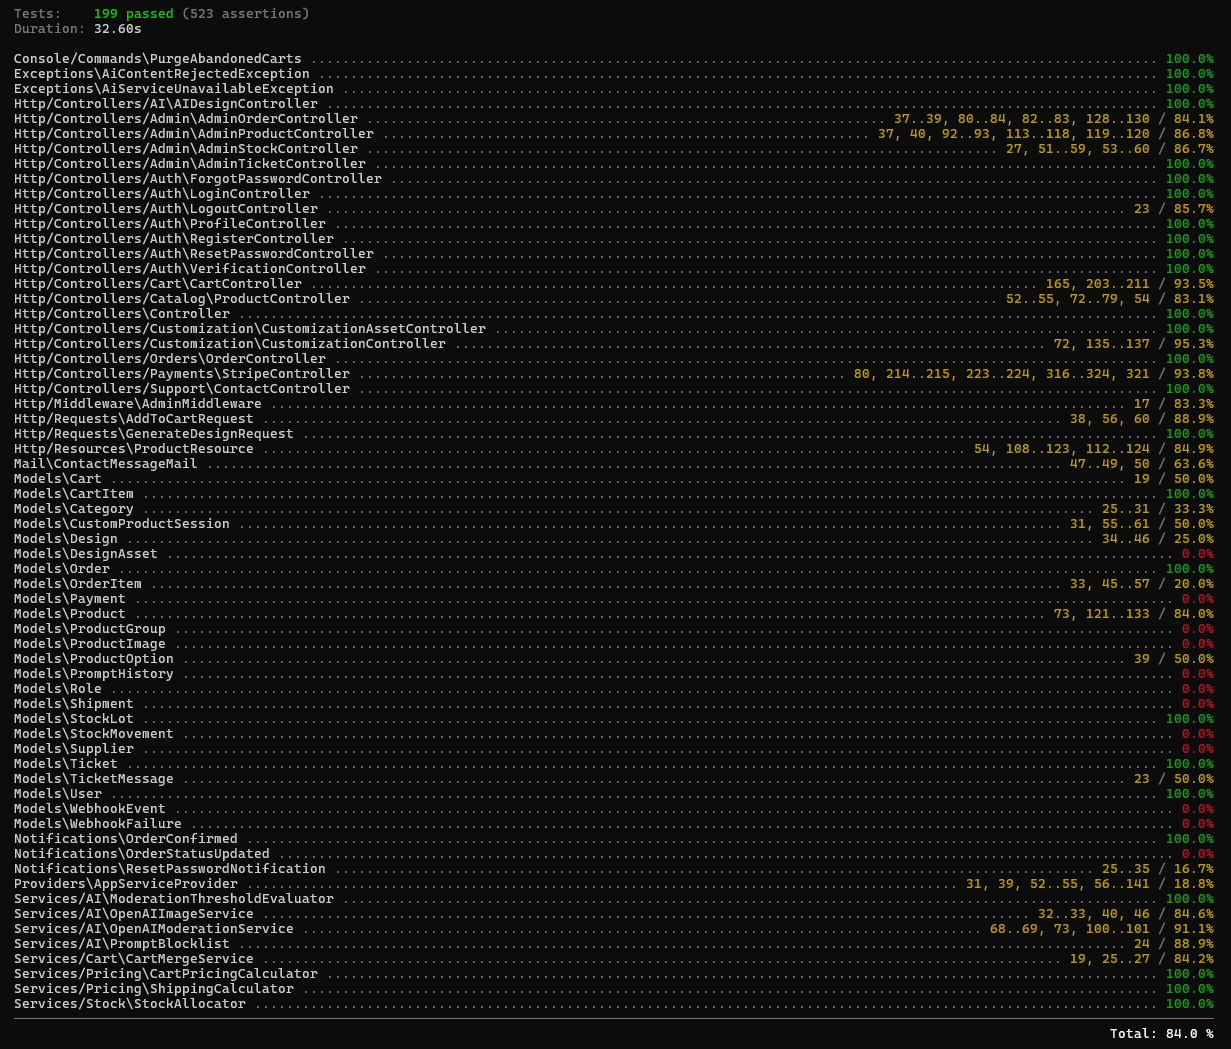
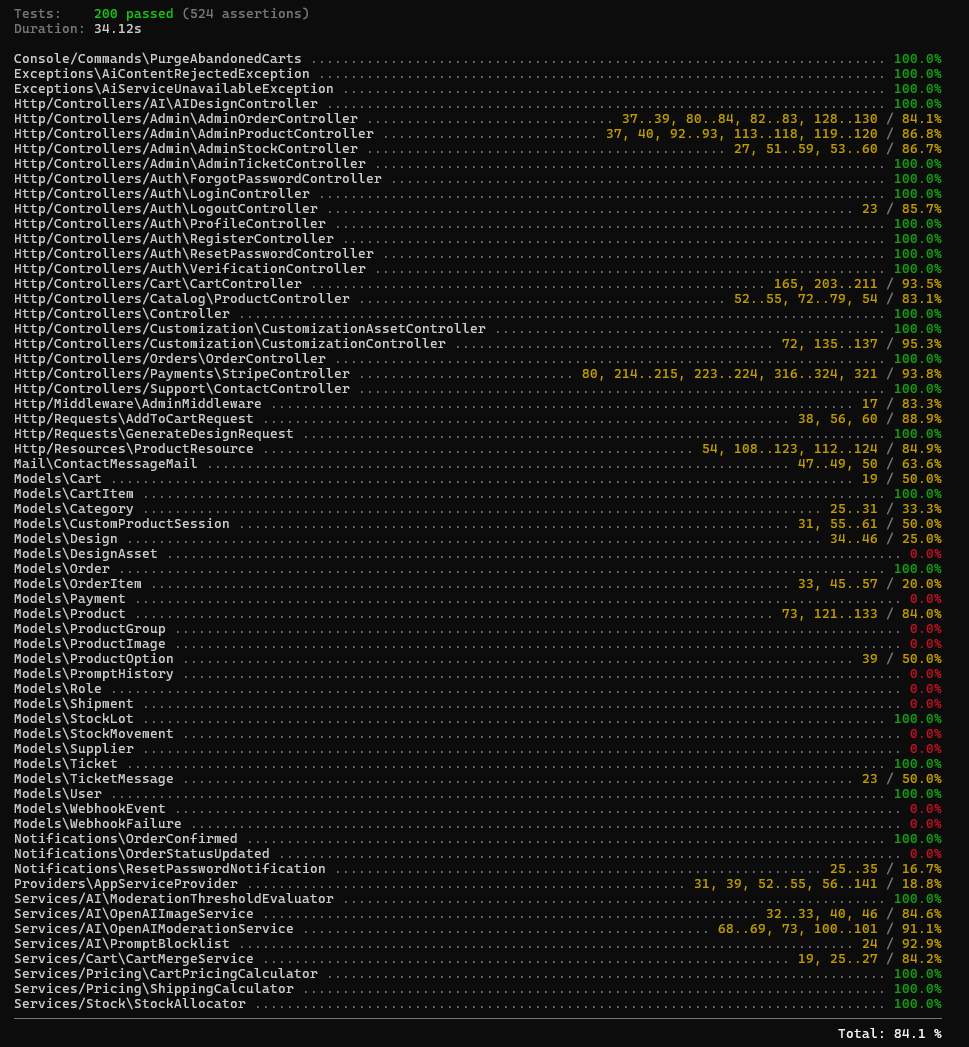
docs(rendusrncp): add CUST-14 leetspeak scenario, update test counts and proofs

diff --git a/preuves_recettes/README.md b/preuves_recettes/README.md
@@ -26,15 +26,15 @@ Screenshots and videos supporting the recette test book (see `rendusrncp/cahier_
 | `erreursentryfront-1.png`                 | Frontend Sentry issue (test) in the dashboard                                                                                        |
 | `erreursentryfront-2.png`                 | Test error captured in the browser console                                                                                           |
 | `sentrybackend-1.png`, `-2.png`, `-4.png` | Real incident: `/api/ai/designs/generate` timeout (30s exceeded) — **no dedicated report in `FICHES_INCIDENTS.md` yet, to be added** |
-| `sentrybackend-3.png`                     | Separate real incident: `Class "Redis" not found` — Report 5 in `rendusrncp/FICHES_INCIDENTS.md`                                     |
+| `sentrybackend-3.png`                     | Separate real incident: `Class "Redis" not found` - Report 5 in `rendusrncp/FICHES_INCIDENTS.md`                                     |
 
 ## Tests, pipeline, accessibility, payment
 
 | File                               | Content                                                                    |
 |------------------------------------|----------------------------------------------------------------------------|
-| `backendtests-1.png` / `-2.png`    | Backend test suite (PHPUnit, 199 passed)                                   |
+| `backendtests-1.png` / `-2.png`    | Backend test suite (PHPUnit, 200 passed)                                   |
 | `frontendtests.png`                | Frontend test suite (Jest, 40 passed)                                      |
-| `tests-coverage.png`               | Backend code coverage by file (`php artisan test --coverage`, total 84.0%) |
+| `tests-coverage.png`               | Backend code coverage by file (`php artisan test --coverage`, total 84.1%) |
 | `pipeline-1.png` … `-3.png`        | CI/CD pipeline (GitHub Actions)                                            |
 | `A11Y-01.png` / `A11Y-01.mp4`      | Accessibility demonstration (keyboard navigation/screen reader)            |
 | `uptime-1.png`                     | Uptime monitoring                                                          |
@@ -53,11 +53,11 @@ Screenshots and videos supporting the recette test book (see `rendusrncp/cahier_
 | `infra04-pipeline-staging-e2e.png`           | INFRA-04: staging pipeline + Cypress E2E green (GitHub Actions)                                |
 | `infra05-pipeline-production.png`            | INFRA-05: production deployment with manual approval gate validated (GitHub Actions)           |
 
-## Closing out the recette test book, second pass (96 → 99 scenarios, 21/07/2026)
+## Closing out the recette test book, second pass (96 → 100 scenarios, 21/07/2026)
 
-Three new Customization scenarios, found and closed during a manual browser walkthrough of the guard rails
-(player number format, text blocklist, upload moderation) that had automated test coverage but no recette
-entry yet.
+Four new Customization scenarios, found and closed during a manual browser walkthrough of the guard rails
+(player number format, text blocklist, upload moderation, blocklist evasion) that had automated test coverage
+but no recette entry yet.
 
 | File                                  | Content                                                                                                                                                                                                                     |
 |---------------------------------------|-----------------------------------------------------------------------------------------------------------------------------------------------------------------------------------------------------------------------------|
@@ -66,3 +66,5 @@ entry yet.
 | `cust12-blocklist-frontend.png`       | CUST-12: rejection message shown in the 3D configurator for a blocklisted term in the player name field                                                                                                                     |
 | `cust13-backend-tests.png`            | CUST-13: targeted PHPUnit tests (logo/image upload rejected for flagged content), 2 passed (7 assertions)                                                                                                                   |
 | `cust13-moderation-frontend.png`      | CUST-13: rejection message shown in the 3D configurator for an uploaded image containing prohibited visual content (weapons, drugs, hate symbols) - dedicated vision-model check added after this scenario was first closed |
+| `cust14-leetspeak-backend-tests.png`  | CUST-14: `PromptBlocklistTest::test_detects_leetspeak_character_substitution` - blocklist now normalizes common character substitutions (e.g. "H!TLER") before matching                                                     |
+| `cust14-leetspeak-frontend.png`       | CUST-14: rejection message shown in the 3D configurator for a blocklisted term disguised with character substitution                                                                                                        |

diff --git a/rendusrncp/fiches_incidents.md b/rendusrncp/fiches_incidents.md
@@ -377,13 +377,13 @@ gate on the GitHub "Production" environment, run #28973278625) on 2026-07-08.
 **Validation**
 Authenticated Lighthouse audit replayed on the configurator page after deployment:
 
-| | Before fix | After fix |
-|---|---|---|
-| Performance | **0** (blank page) | **66** |
-| Accessibility | 93 | 94 |
-| Best practices | 92 | **100** |
-| SEO | 100 | 100 |
-| Console errors | 6+ (CSP, WebGL context lost) | **0** |
+|                | Before fix                   | After fix |
+|----------------|------------------------------|-----------|
+| Performance    | **0** (blank page)           | **66**    |
+| Accessibility  | 93                           | 94        |
+| Best practices | 92                           | **100**   |
+| SEO            | 100                          | 100       |
+| Console errors | 6+ (CSP, WebGL context lost) | **0**     |
 
 Before/after screenshots in `lighthouse/4-prod-configurateur-avant-fix-csp-page-blanche.png` and
 `lighthouse/4-prod-configurateur-apres-fix-csp.report.html`.